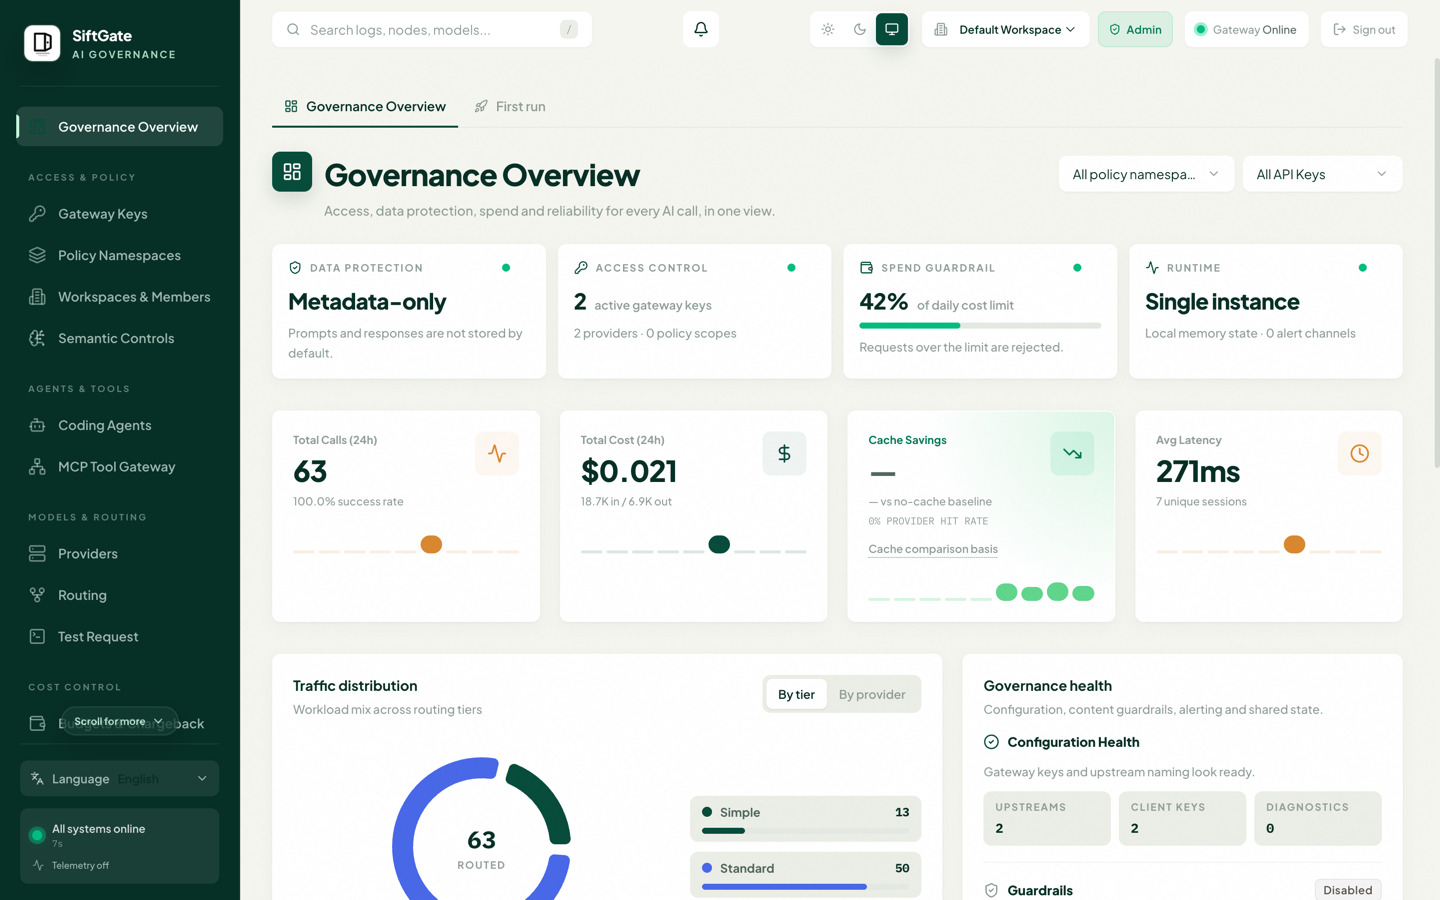
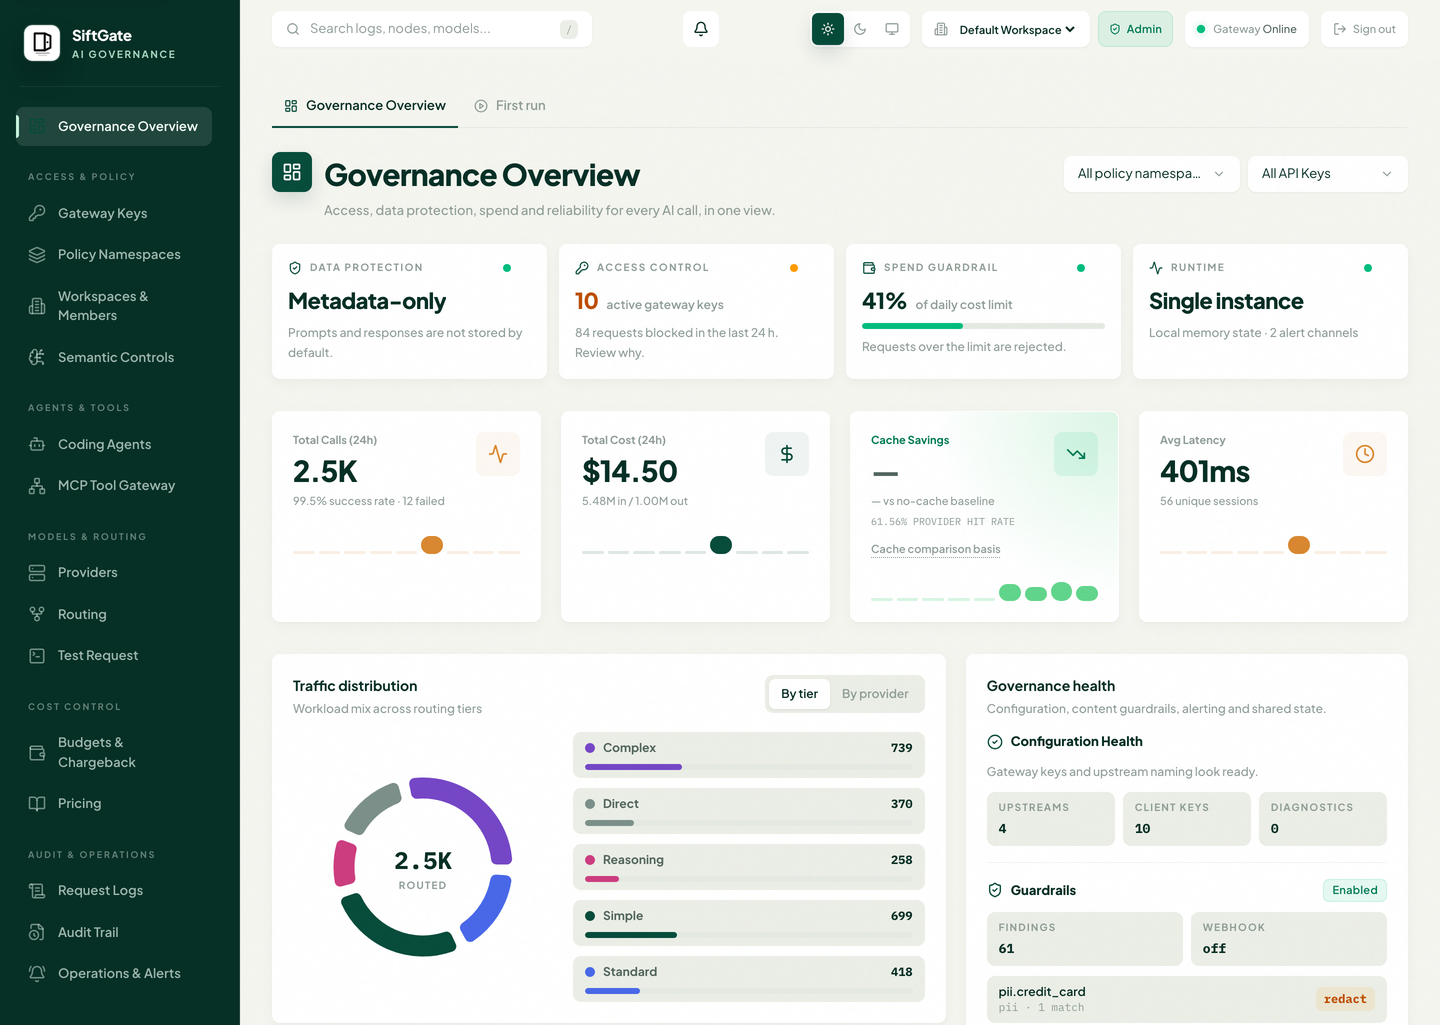
docs: refresh the README story and screenshots for v2.14.0
- README: the pillars, Dashboard paragraph, 30-minute evaluation and
  role table now cover Blocked requests, the privacy posture and
  coding agent Quick connect. A new evaluation scenario shows what the
  gateway refused and why. Add the missing blank line before
  "From PoC To Production".
- Screenshots from a disposable local sandbox with synthetic traffic:
  a refreshed Governance Overview, plus Blocked requests, route evidence
  and Quick connect. Each is recorded in .security/media-review.json
  after maintainer review.
- The seven localized entrypoints add the same capabilities to their
  pillar tables, using the Dashboard's own localized names.
- Add a 1280x640 social preview card for the repository settings.

diff --git a/README.md b/README.md
@@ -83,6 +83,9 @@ intersection of Gateway API key, Team and Policy Namespace rules, and an empty
 intersection fails closed. Per-key model pools route an exact chat model across
 approved nodes. The Dashboard has authentication on by default, fixed
 admin/operator/viewer roles, Workspaces, invitations and optional OIDC.
+Quick connect creates a scoped key and a bound coding agent profile in one step.
+Every request refused by a key permission, a key's rate limit or a budget is
+recorded as metadata under **Blocked requests**, by key, reason and minute.
 
 **2. Data protection and audit.** Call logs, route traces, sessions, MCP calls,
 batch jobs and guardrail findings record metadata, not content. The optional
@@ -90,7 +93,9 @@ local guardrails plugin redacts or blocks PII, secrets, prompt injection and
 policy matches, and records findings as metadata. Management actions go to a
 hash-chained audit log, and configuration changes are versioned with
 validation-first rollback. Full Gateway API keys are shown once; provider
-secrets never appear in Dashboard APIs, logs or exports.
+secrets never appear in Dashboard APIs, logs or exports. A read-only privacy
+posture lists every setting that would keep prompt or response content and
+whether the running configuration has turned it on.
 
 **3. Cost control.** Daily token and cost budgets at global, namespace, team
 and key scope reject over-budget requests with `budget_exceeded`. Workspace
@@ -115,11 +120,12 @@ The Dashboard follows the same structure. Its sidebar groups work into
 and **Audit & Operations**, with previews and evaluation tools in a collapsed
 **Labs** group. Related pages appear as tabs inside each section, and every
 existing URL still works. The Governance Overview opens with the posture a
-reviewer asks about first: data protection, access control, spend guardrail
+reviewer asks about first: whether any setting keeps content, how many
+requests policy refused in the last 24 hours, spend against the daily limit,
 and runtime health. See the [Dashboard guide](docs/DASHBOARD.md#navigation).
 
 <p align="center">
-  <img src="docs/assets/dashboard/governance-overview.png" alt="SiftGate Governance Overview with data protection, access control, spend guardrail and runtime posture" width="100%" />
+  <img src="docs/assets/dashboard/governance-overview.png" alt="SiftGate Governance Overview: metadata-only data protection, requests blocked in the last 24 hours, spend against the daily limit, runtime, traffic by tier and guardrail findings" width="100%" />
 </p>
 
 ## See It In A 30-Minute Evaluation
@@ -127,16 +133,22 @@ and runtime health. See the [Dashboard guide](docs/DASHBOARD.md#navigation).
 Each scenario below is part of the [PoC playbook](docs/poc-playbook.md), which
 scripts the full demo with pass criteria.
 
-**Govern a coding agent with a scoped key.** Create a Gateway API key in the
-Dashboard, render an Agent Profile, and point the tool at SiftGate. The
-engineer's machine never holds a provider key, and `coding-auto` maps to
-policy-respecting smart routing.
+**Govern a coding agent with a scoped key.** In **Coding Agents → Quick
+connect**, pick the tool, then gateway routing or one model, and optionally a
+policy scope, daily cost and per-minute limit. SiftGate creates the scoped
+Gateway API key and a bound Agent Profile together and renders the setup
+snippet. The engineer's machine never holds a provider key, and `coding-auto`
+maps to policy-respecting smart routing.
 
 ```env
 ANTHROPIC_BASE_URL=http://localhost:2099
 ANTHROPIC_AUTH_TOKEN=<SIFTGATE_GATEWAY_API_KEY>
 ANTHROPIC_MODEL=coding-auto
 ```
+
+<p align="center">
+  <img src="docs/assets/dashboard/agent-quick-connect.png" alt="Quick connect for coding agents: choose Claude Code, Codex, Cursor, Cline or another supported tool" width="100%" />
+</p>
 
 **Pool provider keys without losing prompt cache.** Several upstream keys live
 inside one logical node. `cache_aware` keeps a session on the key that already
@@ -172,13 +184,27 @@ Dashboard to see the selected and rejected candidates, policy filters,
 credential hit, cache effect, fallback reason, latency and cost estimate. The
 prompt and response were never written to disk.
 
+<p align="center">
+  <img src="docs/assets/dashboard/route-explanation.png" alt="Route evidence for one request: the final selection after an upstream-error fallback, routing strategy and score, the decision path and its modality checks" width="100%" />
+</p>
+
+**Show what the gateway refused, and why.** Point a key with a narrow scope at
+a model, endpoint or budget it does not cover. Each refusal is recorded as
+metadata in **Request Logs → Blocked requests**, grouped per key, reason and
+minute, with filters for both. Refusals stay out of call logs, so success
+rates, routing samples and cost reports are unchanged.
+
+<p align="center">
+  <img src="docs/assets/dashboard/blocked-requests.png" alt="Blocked requests: refusals by reason (budget, rate limit, endpoint, model, modality, routing mode) and by key" width="100%" />
+</p>
+
 ## What Each Team Gets
 
 | Role | What SiftGate gives them |
 | --- | --- |
 | CTO and platform owner | One provider-neutral entry point for apps, agents and tools; switch or mix providers without client changes. |
-| CISO and security review | Metadata-only defaults, provider-key isolation, fail-closed Dashboard auth, RBAC and OIDC, hash-chained audit, signed releases. |
-| Finance and FinOps | Budgets at global, namespace, team and key scope, chargeback exports by team and project, cost and cache-savings evidence. |
+| CISO and security review | Metadata-only defaults, a privacy posture of every content-keeping setting, provider-key isolation, fail-closed Dashboard auth, RBAC and OIDC, hash-chained audit, signed releases. |
+| Finance and FinOps | Budgets at global, namespace, team and key scope, refused-request evidence per key, chargeback exports by team and project, cost and cache-savings evidence. |
 | Engineering and SRE | OpenAI- and Anthropic-compatible endpoints, automatic failover, route explanations, alerts to Feishu, WeCom, Telegram or webhooks. |
 
 ## Architecture
@@ -233,6 +259,7 @@ feature is explicitly configured to retain content.
 
 The open-source gateway is complete on its own. AI requests never need to pass
 through a hosted service, and no control plane is required.
+
 ## From PoC To Production
 
 | Stage | Recommended setup |

diff --git a/docs/i18n/th/README.md b/docs/i18n/th/README.md
@@ -23,8 +23,8 @@
 
 | เสาหลัก | ครอบคลุม |
 | --- | --- |
-| การเข้าถึงและนโยบาย | key ที่จำกัดขอบเขต, Workspace, Team, Policy Namespace (ถ้าส่วนร่วมว่างจะปฏิเสธทันที), model pool ราย key, Agent Profile, MCP Tool Gateway, RBAC และ OIDC |
-| การปกป้องข้อมูลและการตรวจสอบ | log และ route trace แบบ metadata-only, guardrails ภายในสำหรับ PII, secret และ prompt injection, management audit แบบ hash chain, rollback ของ config แบบมีเวอร์ชัน |
+| การเข้าถึงและนโยบาย | key ที่จำกัดขอบเขต, Workspace, Team, Policy Namespace (ถ้าส่วนร่วมว่างจะปฏิเสธทันที), model pool ราย key, Agent Profile พร้อมการเชื่อมต่อด่วน, MCP Tool Gateway, RBAC และ OIDC และทุกการปฏิเสธจะถูกบันทึกใน "คำขอที่ถูกบล็อก" ตาม key และเหตุผล |
+| การปกป้องข้อมูลและการตรวจสอบ | log และ route trace แบบ metadata-only, guardrails ภายในสำหรับ PII, secret และ prompt injection, management audit แบบ hash chain, rollback ของ config แบบมีเวอร์ชัน และ privacy posture แบบอ่านอย่างเดียวที่แสดงทุกการตั้งค่าที่เก็บเนื้อหา |
 | การควบคุมต้นทุน | งบ token และค่าใช้จ่ายรายวัน, price book ราย Workspace, cost report, การปันส่วนแบบ CSV/JSON, หลักฐานความผิดปกติ, ยอดประหยัดจาก cache |
 | ความเสถียรและการปฏิบัติการ | smart routing, fallback, circuit breaker, route explanation, เส้นทาง PostgreSQL/Redis/Kubernetes, release kit ที่ลงนามด้วย Sigstore, แผนอัปเกรดที่ผ่านการตรวจทาน |
 

diff --git a/docs/i18n/ja/README.md b/docs/i18n/ja/README.md
@@ -23,8 +23,8 @@
 
 | 柱 | 対象範囲 |
 | --- | --- |
-| アクセスとポリシー | 範囲限定 Key、Workspace、Team、Policy Namespace（共通部分が空なら拒否）、Key 単位のモデルプール、Agent Profile、MCP Tool Gateway、RBAC と OIDC。 |
-| データ保護と監査 | メタデータのみのログとルート記録、PII・シークレット・プロンプトインジェクション向けのローカルガードレール、ハッシュチェーン化された管理監査、バージョン管理された設定ロールバック。 |
+| アクセスとポリシー | 範囲限定 Key、Workspace、Team、Policy Namespace（共通部分が空なら拒否）、Key 単位のモデルプール、Agent Profile とクイック接続、MCP Tool Gateway、RBAC と OIDC。拒否はすべて Key と理由ごとに「ブロックされたリクエスト」に記録。 |
+| データ保護と監査 | メタデータのみのログとルート記録、PII・シークレット・プロンプトインジェクション向けのローカルガードレール、ハッシュチェーン化された管理監査、バージョン管理された設定ロールバック、内容を保存する設定をすべて示す読み取り専用のプライバシー状況。 |
 | コスト管理 | 日次のトークン・費用予算、Workspace 価格表、コストレポート、CSV/JSON 配賦、異常の証跡、キャッシュによる削減額。 |
 | 信頼性と運用 | スマートルーティング、フォールバック、サーキットブレーカー、ルーティング説明、PostgreSQL/Redis/Kubernetes への移行パス、Sigstore 署名付きリリースキット、レビュー済みのアップグレード計画。 |
 

diff --git a/docs/i18n/es/README.md b/docs/i18n/es/README.md
@@ -23,8 +23,8 @@ Versión actual: **v2.14.0**.
 
 | Pilar | Qué cubre |
 | --- | --- |
-| Acceso y políticas | Claves acotadas, Workspaces, Teams y Policy Namespaces con intersecciones que deniegan si quedan vacías, pools de modelos por clave, Agent Profiles, MCP Tool Gateway, RBAC y OIDC. |
-| Protección de datos y auditoría | Logs y trazas de ruta solo con metadatos, guardrails locales para PII, secretos e inyección de prompts, auditoría de gestión encadenada por hash y rollback de configuración versionada. |
+| Acceso y políticas | Claves acotadas, Workspaces, Teams y Policy Namespaces con intersecciones que deniegan si quedan vacías, pools de modelos por clave, Agent Profiles con conexión rápida, MCP Tool Gateway, RBAC y OIDC, y un registro de Solicitudes bloqueadas por clave y motivo. |
+| Protección de datos y auditoría | Logs y trazas de ruta solo con metadatos, guardrails locales para PII, secretos e inyección de prompts, auditoría de gestión encadenada por hash, rollback de configuración versionada y un estado de privacidad de solo lectura con cada ajuste que guarda contenido. |
 | Control de costos | Presupuestos diarios de tokens y costo, libros de precios por Workspace, informe de costos, imputación en CSV/JSON, evidencia de anomalías y ahorro por caché. |
 | Confiabilidad y operaciones | Enrutamiento inteligente, fallbacks, circuit breakers, explicación de rutas, camino a PostgreSQL/Redis/Kubernetes, kits de versión firmados con Sigstore y planes de actualización revisados. |
 

diff --git a/docs/i18n/ko/README.md b/docs/i18n/ko/README.md
@@ -23,8 +23,8 @@
 
 | 축 | 다루는 범위 |
 | --- | --- |
-| 액세스 및 정책 | 범위 제한 키, Workspace, Team, Policy Namespace(교집합이 비면 거부), 키별 모델 풀, Agent Profile, MCP Tool Gateway, RBAC와 OIDC. |
-| 데이터 보호 및 감사 | 메타데이터만 남기는 로그와 라우팅 기록, PII·시크릿·프롬프트 인젝션용 로컬 가드레일, 해시 체인 관리 감사, 버전 관리되는 설정 롤백. |
+| 액세스 및 정책 | 범위 제한 키, Workspace, Team, Policy Namespace(교집합이 비면 거부), 키별 모델 풀, Agent Profile과 빠른 연결, MCP Tool Gateway, RBAC와 OIDC. 모든 거부는 키와 사유별로 '차단된 요청'에 기록. |
+| 데이터 보호 및 감사 | 메타데이터만 남기는 로그와 라우팅 기록, PII·시크릿·프롬프트 인젝션용 로컬 가드레일, 해시 체인 관리 감사, 버전 관리되는 설정 롤백, 내용을 저장하는 모든 설정을 보여 주는 읽기 전용 개인정보 보호 상태. |
 | 비용 관리 | 일일 토큰·비용 예산, Workspace 가격표, 비용 보고서, CSV/JSON 비용 배분, 이상 징후 증거, 캐시 절감액. |
 | 안정성 및 운영 | 스마트 라우팅, 폴백, 서킷 브레이커, 라우팅 설명, PostgreSQL/Redis/Kubernetes 운영 경로, Sigstore 서명 릴리스 키트, 검토된 업그레이드 계획. |
 

diff --git a/docs/i18n/en/README.md b/docs/i18n/en/README.md
@@ -27,8 +27,8 @@ leaves an audit trail without storing prompts or responses.
 
 | Pillar | What it covers |
 | --- | --- |
-| Access and policy | Scoped keys, Workspaces, Teams and Policy Namespaces with fail-closed intersections, per-key model pools, Agent Profiles, MCP Tool Gateway, RBAC and OIDC. |
-| Data protection and audit | Metadata-only logs and traces, local guardrails for PII, secrets and prompt injection, hash-chained management audit, versioned config rollback. |
+| Access and policy | Scoped keys, Workspaces, Teams and Policy Namespaces with fail-closed intersections, per-key model pools, Agent Profiles with Quick connect, MCP Tool Gateway, RBAC and OIDC, and a Blocked requests record of every refusal by key and reason. |
+| Data protection and audit | Metadata-only logs and traces, local guardrails for PII, secrets and prompt injection, hash-chained management audit, versioned config rollback, and a read-only privacy posture of every setting that keeps content. |
 | Cost control | Daily token and cost budgets, workspace price books, cost report, chargeback CSV/JSON, anomaly evidence, cache savings. |
 | Reliability and operations | Smart routing, fallbacks, circuit breakers, route explanation, PostgreSQL/Redis/Kubernetes path, Sigstore-signed release kits, reviewed upgrade plans. |
 

diff --git a/docs/i18n/zh-TW/README.md b/docs/i18n/zh-TW/README.md
@@ -23,8 +23,8 @@
 
 | 支柱 | 涵蓋內容 |
 | --- | --- |
-| 存取與權限 | 受限 Key、Workspace、Team、Policy Namespace（交集為空即拒絕）、依 Key 的模型池、Agent Profile、MCP Tool Gateway、RBAC 與 OIDC。 |
-| 資料保護與稽核 | 只存中繼資料的日誌與路由紀錄，本地護欄處理 PII、密鑰與 Prompt 注入，雜湊鏈管理稽核，版本化設定回滾。 |
+| 存取與權限 | 受限 Key、Workspace、Team、Policy Namespace（交集為空即拒絕）、依 Key 的模型池、Agent Profile 與快速接入、MCP Tool Gateway、RBAC 與 OIDC，每次拒絕都依 Key 和原因記入「已攔截請求」。 |
+| 資料保護與稽核 | 只存中繼資料的日誌與路由紀錄，本地護欄處理 PII、密鑰與 Prompt 注入，雜湊鏈管理稽核，版本化設定回滾，唯讀隱私態勢列出所有會保存內容的設定。 |
 | 成本管控 | 每日 Token 與費用預算、Workspace 價格簿、成本報表、CSV/JSON 成本分攤、異常證據、快取節省。 |
 | 可靠性與維運 | 智慧路由、Fallback、熔斷、路由說明，PostgreSQL/Redis/Kubernetes 正式環境路徑，Sigstore 簽章發行套件，經審查的升級計畫。 |
 

diff --git a/docs/i18n/zh/README.md b/docs/i18n/zh/README.md
@@ -23,8 +23,8 @@
 
 | 支柱 | 覆盖内容 |
 | --- | --- |
-| 接入与权限 | 受限 Key、Workspace、Team、Policy Namespace（交集为空即拒绝）、按 Key 的模型池、Agent Profile、MCP Tool Gateway、RBAC 与 OIDC。 |
-| 数据保护与审计 | 只存元数据的日志与路由记录，本地护栏处理 PII、密钥和 Prompt 注入，哈希链管理审计，版本化配置回滚。 |
+| 接入与权限 | 受限 Key、Workspace、Team、Policy Namespace（交集为空即拒绝）、按 Key 的模型池、Agent Profile 与快速接入、MCP Tool Gateway、RBAC 与 OIDC，每次拒绝都按 Key 和原因记入“已拦截请求”。 |
+| 数据保护与审计 | 只存元数据的日志与路由记录，本地护栏处理 PII、密钥和 Prompt 注入，哈希链管理审计，版本化配置回滚，只读隐私态势列出所有会保存内容的设置。 |
 | 成本管控 | 每日 Token 与费用预算、Workspace 价格簿、成本报表、CSV/JSON 成本分摊、异常证据、缓存节省。 |
 | 可靠性与运维 | 智能路由、Fallback、熔断、路由解释，PostgreSQL/Redis/Kubernetes 生产路径，Sigstore 签名发行包，经评审的升级计划。 |
 
